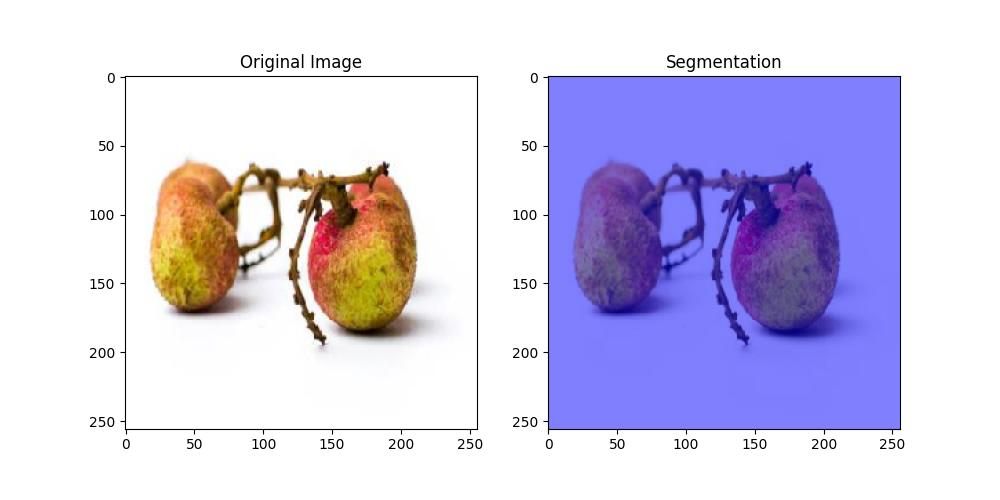
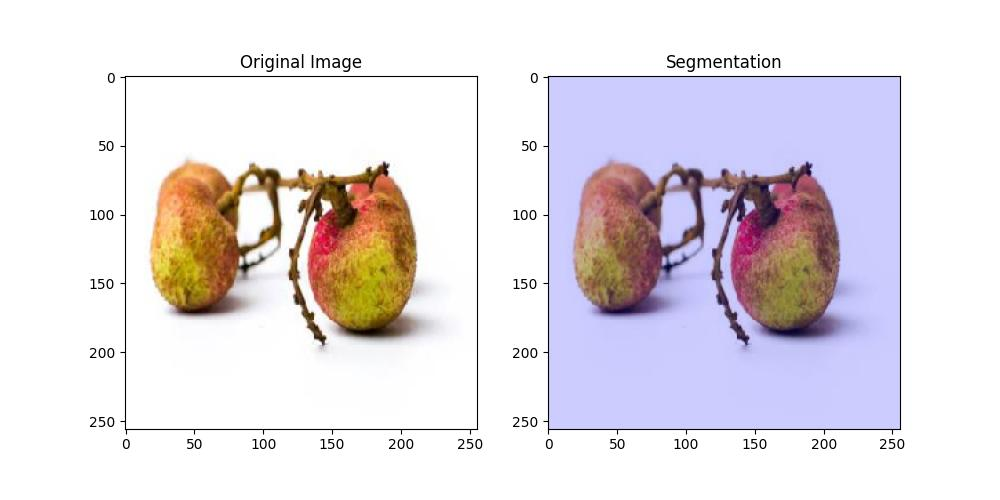
CHANGESSS

Changed region(s): [[0.527, 0.15, 0.899, 0.87]]

diff --git a/Assignment2/run_me/tuners.py b/Assignment2/run_me/tuners.py
@@ -13,6 +13,52 @@ def unet(train_gen, val_gen, test_gen):
     save_dir = os.path.join(os.path.dirname(__file__), 'outputs')
     model_checkpoint_path = os.path.join(save_dir, 'unet_KH.h5')
 
+    # Utilizing a pre-trained VGG16 model as the encoder part of U-NET++
+    vgg16 = VGG16(include_top = False, weights = 'imagenet', 
+            input_shape = input_size)
+    for layer in vgg16.layers: # Freeze layers
+        layer.trainable = False
+
+    layer_dict = dict([(layer.name, layer) for layer in vgg16.layers])
+
+    inputs = vgg16.input
+
+     # Encoder - VGG16
+    vgg_outputs = [vgg16.get_layer(name).output for name in ['block1_conv2', 'block2_conv2', 'block3_conv3', 'block4_conv3', 'block5_conv3']]
+    c1, c2, c3, c4, c5 = vgg_outputs
+    
+    # Bottleneck
+    bottleneck = c5
+
+   # Decoder
+    up6 = Conv2DTranspose(512, 2, strides=(2, 2), padding='same')(bottleneck)
+    merge6 = concatenate([c4, up6], axis=3)
+    c6 = Conv2D(512, 3, activation='relu', padding='same')(merge6)
+    c6 = Conv2D(512, 3, activation='relu', padding='same')(c6)
+
+    up7 = Conv2DTranspose(256, 2, strides=(2, 2), padding='same')(c6)
+    merge7 = concatenate([c3, up7], axis=3)
+    c7 = Conv2D(256, 3, activation='relu', padding='same')(merge7)
+    c7 = Conv2D(256, 3, activation='relu', padding='same')(c7)
+
+    up8 = Conv2DTranspose(128, 2, strides=(2, 2), padding='same')(c7)
+    merge8 = concatenate([c2, up8], axis=3)
+    c8 = Conv2D(128, 3, activation='relu', padding='same')(merge8)
+    c8 = Conv2D(128, 3, activation='relu', padding='same')(c8)
+
+    up9 = Conv2DTranspose(64, 2, strides=(2, 2), padding='same')(c8)
+    merge9 = concatenate([c1, up9], axis=3)
+    c9 = Conv2D(64, 3, activation='relu', padding='same')(merge9)
+    c9 = Conv2D(64, 3, activation='relu', padding='same')(c9)
+    
+    outputs = Conv2D(1, 1, activation = 'sigmoid')(c9)
+
+    model = Model(inputs=vgg16.input, outputs=outputs)
+
+    model.compile(optimizer = Adam(learning_rate = 1e-4), 
+                  loss = 'binary_crossentropy', 
+                  metrics = ['accuracy'])
+
     def scheduler(epoch, lr):
         if epoch < 10:
             return lr
@@ -21,81 +67,10 @@ def unet(train_gen, val_gen, test_gen):
 
     callbacks = [
         EarlyStopping(patience = 10, verbose = 1),
-        ModelCheckpoint(filepath = os.path.join(save_dir,'unet_KH.h5'), verbose = 1, save_best_only = True),
+        ModelCheckpoint(filepath = os.path.join(save_dir,'unet_KH.h5'), 
+        verbose = 1, save_best_only = True),
         LearningRateScheduler(scheduler, verbose = 1)
     ]
-
-    # MODEL! U-NET
-    inputs = Input(input_size)
-    conv1 = Conv2D(64, 3, activation = 'relu', padding = 'same', kernel_initializer = 'he_normal')(inputs)
-    conv1 = Conv2D(64, 3, activation = 'relu', padding = 'same', kernel_initializer = 'he_normal')(conv1)
-    pool1 = MaxPooling2D(pool_size=(2, 2))(conv1)
-    conv2 = Conv2D(128, 3, activation = 'relu', padding = 'same', kernel_initializer = 'he_normal')(pool1)
-    conv2 = Conv2D(128, 3, activation = 'relu', padding = 'same', kernel_initializer = 'he_normal')(conv2)
-    pool2 = MaxPooling2D(pool_size=(2, 2))(conv2)
-    conv3 = Conv2D(256, 3, activation = 'relu', padding = 'same', kernel_initializer = 'he_normal')(pool2)
-    conv3 = Conv2D(256, 3, activation = 'relu', padding = 'same', kernel_initializer = 'he_normal')(conv3)
-    pool3 = MaxPooling2D(pool_size=(2, 2))(conv3)
-    conv4 = Conv2D(512, 3, activation = 'relu', padding = 'same', kernel_initializer = 'he_normal')(pool3)
-    conv4 = Conv2D(512, 3, activation = 'relu', padding = 'same', kernel_initializer = 'he_normal')(conv4)
-    drop4 = Dropout(0.5)(conv4)
-    pool4 = MaxPooling2D(pool_size=(2, 2))(drop4)
-
-    conv5 = Conv2D(1024, 3, activation = 'relu', padding = 'same', kernel_initializer = 'he_normal')(pool4)
-    conv5 = Conv2D(1024, 3, activation = 'relu', padding = 'same', kernel_initializer = 'he_normal')(conv5)
-    drop5 = Dropout(0.5)(conv5)
-
-    up6 = Conv2D(512, 2, activation = 'relu', padding = 'same', kernel_initializer = 'he_normal')(UpSampling2D(size = (2,2))(drop5))
-    merge6 = concatenate([drop4,up6], axis = 3)
-    conv6 = Conv2D(512, 3, activation = 'relu', padding = 'same', kernel_initializer = 'he_normal')(merge6)
-    conv6 = Conv2D(512, 3, activation = 'relu', padding = 'same', kernel_initializer = 'he_normal')(conv6)
-
-    up7 = Conv2D(256, 2, activation = 'relu', padding = 'same', kernel_initializer = 'he_normal')(UpSampling2D(size = (2,2))(conv6))
-    merge7 = concatenate([conv3,up7], axis = 3)
-    conv7 = Conv2D(256, 3, activation = 'relu', padding = 'same', kernel_initializer = 'he_normal')(merge7)
-    conv7 = Conv2D(256, 3, activation = 'relu', padding = 'same', kernel_initializer = 'he_normal')(conv7)
-
-    up8 = Conv2D(128, 2, activation = 'relu', padding = 'same', kernel_initializer = 'he_normal')(UpSampling2D(size = (2,2))(conv7))
-    merge8 = concatenate([conv2,up8], axis = 3)
-    conv8 = Conv2D(128, 3, activation = 'relu', padding = 'same', kernel_initializer = 'he_normal')(merge8)
-    conv8 = Conv2D(128, 3, activation = 'relu', padding = 'same', kernel_initializer = 'he_normal')(conv8)
-
-    up9 = Conv2D(64, 2, activation = 'relu', padding = 'same', kernel_initializer = 'he_normal')(UpSampling2D(size = (2,2))(conv8))
-    merge9 = concatenate([conv1,up9], axis = 3)
-    conv9 = Conv2D(64, 3, activation = 'relu', padding = 'same', kernel_initializer = 'he_normal')(merge9)
-    conv9 = Conv2D(64, 3, activation = 'relu', padding = 'same', kernel_initializer = 'he_normal')(conv9)
-    conv9 = Conv2D(2, 3, activation = 'relu', padding = 'same', kernel_initializer = 'he_normal')(conv9)
-    outputs = Conv2D(1, 1, activation = 'sigmoid')(conv9)
-
-    # ################ Simple CNN, not used
-    # inputs = Input(input_size)
-    # # Contracting Path
-    # c1 = Conv2D(32, (3, 3), activation='relu', padding='same')(inputs)
-    # p1 = MaxPooling2D((2, 2))(c1)
-    # c2 = Conv2D(64, (3, 3), activation='relu', padding='same')(p1)
-    # p2 = MaxPooling2D((2, 2))(c2)
-
-    # # Bottleneck
-    # bn = Conv2D(128, (3, 3), activation='relu', padding='same')(p2)
-    # bn = Dropout(0.5)(bn)
-
-    # # Expansive Path
-    # u1 = UpSampling2D((2, 2))(bn)
-    # merge1 = concatenate([c2, u1], axis=3)
-    # c3 = Conv2D(64, (3, 3), activation='relu', padding='same')(merge1)
-    # u2 = UpSampling2D((2, 2))(c3)
-    # merge2 = concatenate([c1, u2], axis=3)
-    # c4 = Conv2D(32, (3, 3), activation='relu', padding='same')(merge2)
-    
-    # outputs = Conv2D(1, (1, 1), activation='sigmoid')(c4)
-    #################
-
-    model = Model(inputs = [inputs], outputs = [outputs])
-
-    model.compile(optimizer = Adam(learning_rate = 1e-4), 
-                  loss = 'binary_crossentropy', 
-                  metrics = ['accuracy'])
-
     # Tracking training time for LOLs
     start_time = time.time()
 

diff --git a/Assignment2/run_me/utilities.py b/Assignment2/run_me/utilities.py
@@ -37,8 +37,8 @@ def dice_coefficient(y_true, y_pred, smooth=1e-6):
     return tf.reduce_mean(dice)
 
 
-def overlay_segmentation(image_path, model, save_dir):
-    custom_cmap = ListedColormap(['blue', 'red'])
+def overlay_segmentation(image_path, true_mask_path, model, save_dir):
+    custom_cmap = ListedColormap(['blue', 'green'])
 
     original_image = load_img(image_path, target_size=(256, 256))
     numpy_image = img_to_array(original_image)
@@ -47,16 +47,27 @@ def overlay_segmentation(image_path, model, save_dir):
 
     predicted_mask = np.argmax(predictions, axis=-1)
     predicted_mask = np.squeeze(predicted_mask, axis=0)
+    
+    # Load the actual mask
+    true_mask = img_to_array(load_img(true_mask_path, target_size=(256, 256), color_mode="grayscale")) / 255.0
 
-    plt.figure(figsize=(10, 5))
-    plt.subplot(1, 2, 1)
+    plt.figure(figsize=(15, 5))
+    
+    plt.subplot(1, 3, 1)
     plt.title("Original Image")
     plt.imshow(original_image)
-    plt.subplot(1, 2, 2)
-    plt.title("Segmentation")
+    plt.axis('off')
+    
+    plt.subplot(1, 3, 2)
+    plt.title("Actual Mask")
+    plt.imshow(true_mask, cmap='gray')  # Assuming true mask is in grayscale
+    plt.axis('off')
+
+    plt.subplot(1, 3, 3)
+    plt.title("Predicted Mask")
     plt.imshow(original_image)
-    # Use the custom colormap for the segmentation mask
-    plt.imshow(predicted_mask, alpha=0.5, cmap=custom_cmap)  # Adjust transparency with alpha
+    plt.imshow(predicted_mask, alpha=0.5, cmap=custom_cmap)  # Overlay predicted mask
+    plt.axis('off')
     
     # Save the figure to the specified directory
     image_name = os.path.basename(image_path)
@@ -94,6 +105,7 @@ def model_eval(history, model):
     
     # This block of code is going to load in the trained model, and overlay
     # The predicted image segmentation
+
     test_images_dir = os.path.join(os.path.dirname(__file__), 'Data_new/Test/Images')
     #model = load_model(os.path.join(os.path.dirname(__file__), 'outputs/unet_KH.h5'))
     save_dir = os.path.join(os.path.dirname(__file__), 'outputs')  # Specify where to save overlay images
@@ -135,7 +147,7 @@ def model_eval(history, model):
 
         # Visualize the first few images
         if len(ious) <= 5:  # number of images to visualize
-            overlay_segmentation(image_path, model, save_dir)
+            overlay_segmentation(image_path, mask_path, model, save_dir)
     
     print(f"Average IoU: {np.mean(ious)}, Average Dice: {np.mean(dices)}")
 

diff --git a/Assignment2/run_me/data_preprocessing.py b/Assignment2/run_me/data_preprocessing.py
@@ -42,6 +42,14 @@ class SegmentationDataGenerator(Sequence):
     def __len__(self):
         return len(self.image_paths) // self.batch_size
 
+
+    def grayscale_to_color(mask):
+        # Assuming the mask is a single-channel image with pixel values 0 or 255
+        color_mask = np.zeros((*mask.shape, 3), dtype=np.uint8)  # create a 3-channel RGB image
+        color_mask[mask == 0] = [255, 0, 0]  # red color for class 0
+        color_mask[mask == 255] = [0, 255, 0]  # green color for class 1
+        return color_mask
+
     def __getitem__(self, idx):
         batch_image_paths = self.image_paths[idx * self.batch_size:(idx + 1) * self.batch_size]
         batch_mask_paths = self.mask_paths[idx * self.batch_size:(idx + 1) * self.batch_size]
@@ -49,9 +57,11 @@ class SegmentationDataGenerator(Sequence):
         batch_images = np.array([cv2.resize(cv2.imread(file_path), self.image_size) for file_path in batch_image_paths])
         batch_masks = np.array([cv2.resize(cv2.imread(file_path, cv2.IMREAD_GRAYSCALE), self.image_size) for file_path in batch_mask_paths])
         
-        # Normalization and expansion of dimensions might be needed depending on how your model expects the data
-        batch_images = batch_images / 255.0
-        batch_masks = np.expand_dims(batch_masks, -1) / 255.0
-        
-        return batch_images, batch_masks
+        # Convert grayscale masks to RGB
+        batch_masks_rgb = np.array([grayscale_to_color(cv2.resize(cv2.imread(file_path, cv2.IMREAD_GRAYSCALE), self.image_size)) for file_path in batch_mask_paths])
 
+        # Normalization might be needed depending on how your model expects the data
+        batch_images = batch_images / 255.0
+        batch_masks_rgb = batch_masks_rgb.astype(np.float32) / 255.0  # Make sure to cast to float32 after color conversion
+        
+        return batch_images, batch_masks_rgb
